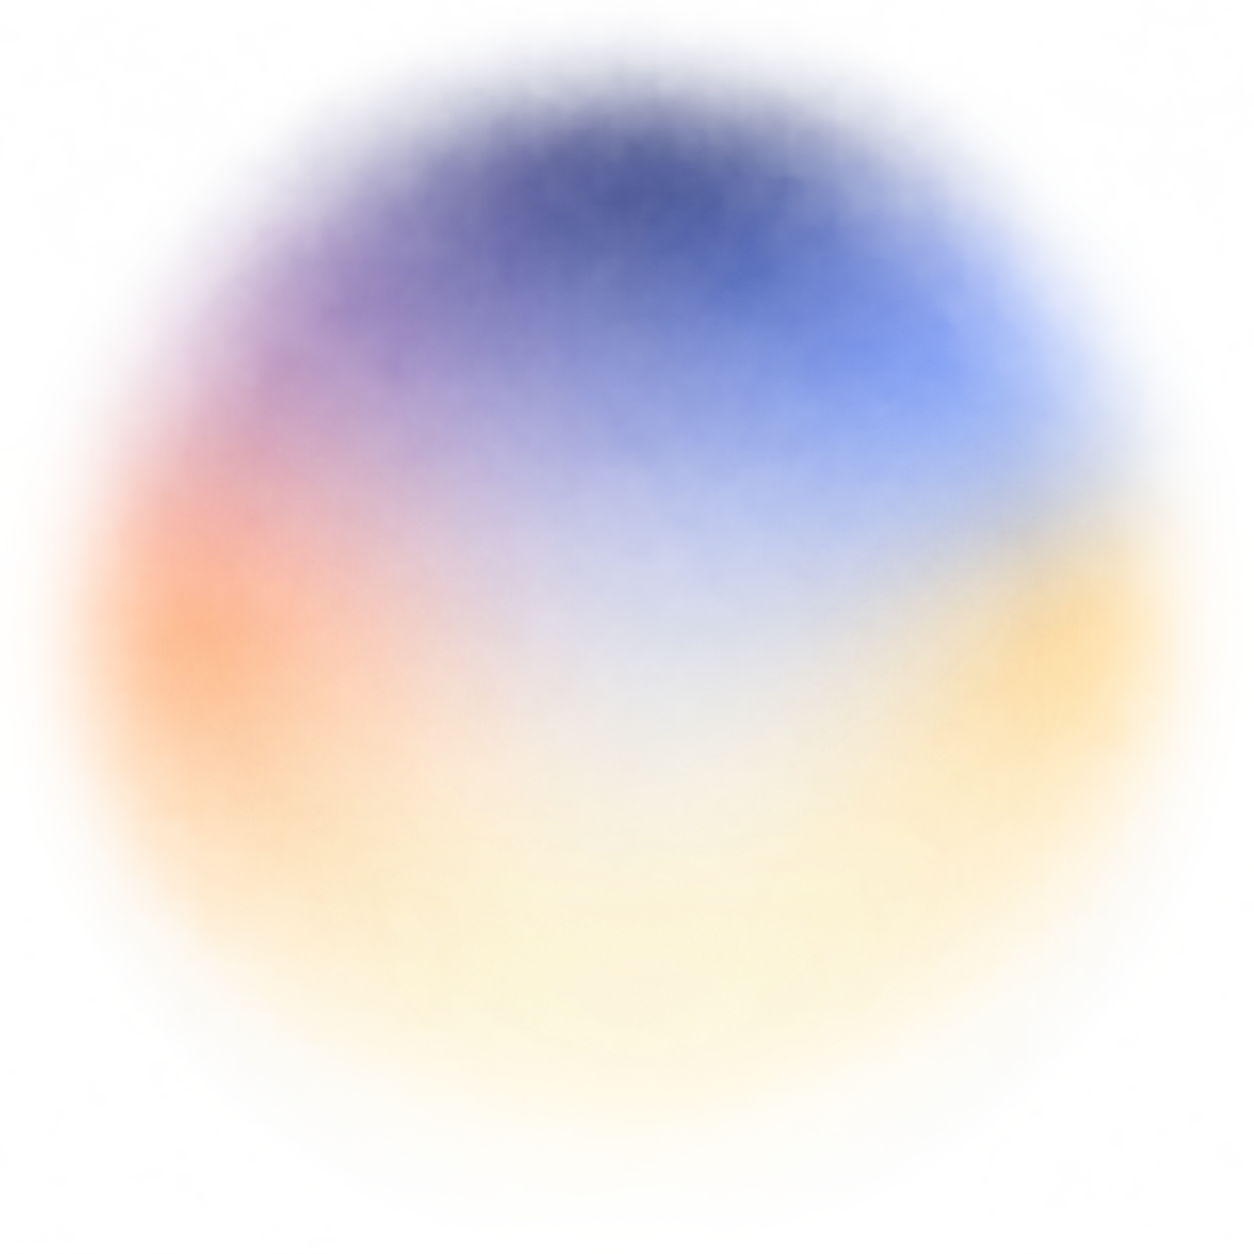
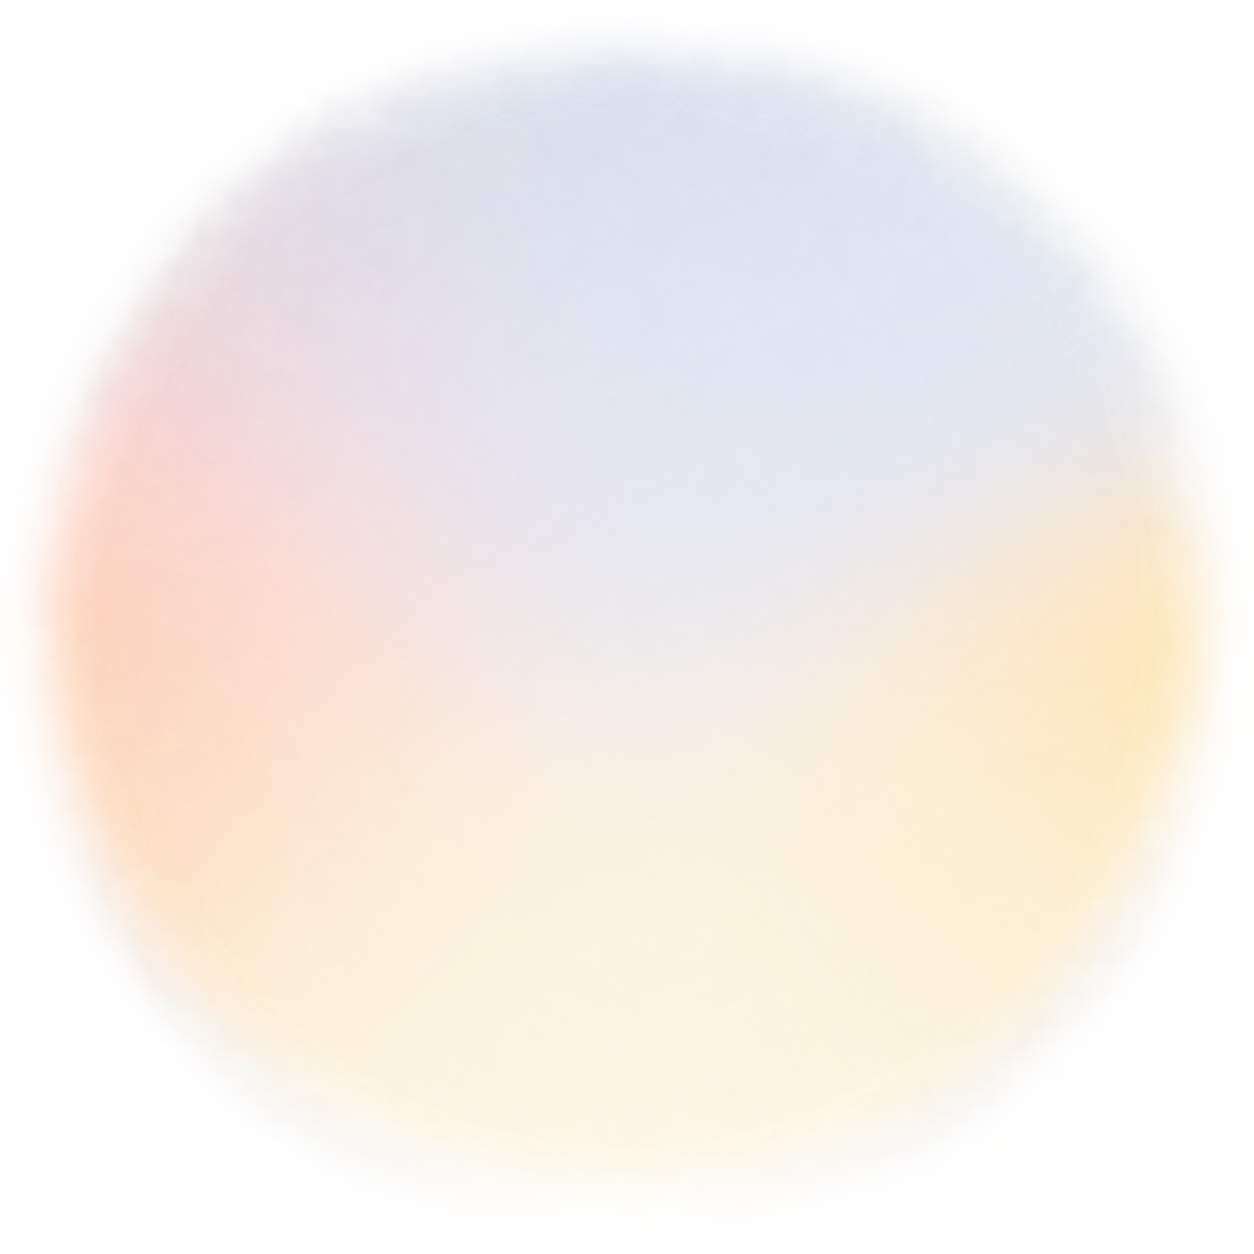
Refine Daily Rhythm dial

diff --git a/src/App.tsx b/src/App.tsx
@@ -858,7 +858,7 @@ function DailyRhythmCard({ petName, moments, scheduledMoments, onOpenActivitySum
     const distance = event.clientX - drag.x;
     if (!drag.active) return;
     event.preventDefault();
-    setDialTimeOffset(drag.offset + Math.round(distance * 3));
+    setDialTimeOffset(drag.offset - Math.round(distance * 3));
   };
   const endDialDrag = () => {
     const drag = dialDrag.current;
@@ -950,18 +950,18 @@ function DailyRhythmCard({ petName, moments, scheduledMoments, onOpenActivitySum
       </div>
     </header>
     <>
-    <div className="daily-rhythm-circle-heading"><span className="rhythm-circle-legend"><span><i className="pattern-key"/>Typical window</span><span><i className="done-key"/>Done</span><span><i className="upcoming-key"/>Upcoming</span></span><span className="daily-rhythm-dial-controls">{isToday ? <span className={`daily-rhythm-dial-toggle ${fullDayDial && !isRevealingHalfDay ? 'is-full-day' : ''} ${isRevealingHalfDay ? 'is-instant' : ''}`} role="group" aria-label="Dial view"><span className="daily-rhythm-dial-toggle-thumb" aria-hidden="true"/><button type="button" aria-pressed={!fullDayDial || isRevealingHalfDay} onClick={() => transitionDialMode(false)}>Now</button><button type="button" aria-pressed={fullDayDial && !isRevealingHalfDay} onClick={() => transitionDialMode(true)}>Full day</button></span> : <span className="daily-rhythm-dial-toggle-spacer" aria-hidden="true"/>}<button type="button" onClick={() => onPatterns()}>{timedPatterns.length ? 'View →' : 'Set up →'}</button></span></div>
+    <div className="daily-rhythm-circle-heading"><span className="rhythm-circle-legend"><span><i className="pattern-key"/>Typical window</span><span><i className="done-key"/>Done</span><span><i className="upcoming-key"/>Upcoming</span><span className="attention-legend"><i className="pending-key" aria-hidden="true"/>Needs attention</span></span><span className="daily-rhythm-dial-controls">{isToday ? <span className={`daily-rhythm-dial-toggle ${fullDayDial && !isRevealingHalfDay ? 'is-full-day' : ''} ${isRevealingHalfDay ? 'is-instant' : ''}`} role="group" aria-label="Dial view"><span className="daily-rhythm-dial-toggle-thumb" aria-hidden="true"/><button type="button" aria-pressed={!fullDayDial || isRevealingHalfDay} onClick={() => transitionDialMode(false)}>Now</button><button type="button" aria-pressed={fullDayDial && !isRevealingHalfDay} onClick={() => transitionDialMode(true)}>Full day</button></span> : <span className="daily-rhythm-dial-toggle-spacer" aria-hidden="true"/>}<button type="button" onClick={() => onPatterns()}>{timedPatterns.length ? 'View →' : 'Set up →'}</button></span></div>
     <div ref={dialChartRef} className={`daily-rhythm-circle-chart ${fullDayDial ? 'is-full-day' : 'is-half-day'} ${isRevealingFullDay ? 'is-revealing-full-day' : ''} ${isRevealingHalfDay ? 'is-revealing-half-day' : ''}`} onPointerDown={startDialDrag} onPointerMove={moveDialDrag} onPointerUp={endDialDrag} onPointerCancel={endDialDrag}>
       <svg viewBox={fullDayDial ? '0 0 600 600' : '0 0 600 300'} role="img" aria-label={`${displayName}’s ${fullDayDial ? 'full-day' : '12-hour'} activity timeline`}>
       <defs>
         <clipPath id="daily-rhythm-dial-clip"><rect x="0" y="0" width="600" height={fullDayDial ? 600 : 300}/></clipPath>
         <radialGradient id="daily-rhythm-atmosphere-fade" cx="300" cy="300" r="245" gradientUnits="userSpaceOnUse">
           <stop offset="0" stopColor="white" stopOpacity="1"/>
-          <stop offset=".3" stopColor="white" stopOpacity=".98"/>
+          <stop offset=".35" stopColor="white" stopOpacity=".99"/>
           <stop offset=".5" stopColor="white" stopOpacity=".9"/>
-          <stop offset=".7" stopColor="white" stopOpacity=".74"/>
-          <stop offset=".85" stopColor="white" stopOpacity=".52"/>
-          <stop offset=".95" stopColor="white" stopOpacity=".22"/>
+          <stop offset=".62" stopColor="white" stopOpacity=".66"/>
+          <stop offset=".74" stopColor="white" stopOpacity=".34"/>
+          <stop offset=".86" stopColor="white" stopOpacity=".08"/>
           <stop offset="1" stopColor="white" stopOpacity="0"/>
         </radialGradient>
         <mask id="daily-rhythm-atmosphere-mask" x="0" y="0" width="600" height="600" maskUnits="userSpaceOnUse" maskContentUnits="userSpaceOnUse"><rect width="600" height="600" fill="url(#daily-rhythm-atmosphere-fade)"/></mask>

diff --git a/src/styles.css b/src/styles.css
@@ -209,7 +209,7 @@ button:focus-visible, textarea:focus-visible, input:focus-visible { outline: 2px
 .daily-rhythm-split > .daily-rhythm-chart,
 .daily-rhythm-split > .daily-rhythm-today-lane { display:none; }
 .daily-rhythm-circle-chart svg { display:block; width:100%; height:auto; overflow:visible; }
-.daily-rhythm-atmosphere { opacity:.84; filter:saturate(1.5) contrast(1.1) brightness(.92); mix-blend-mode:multiply; pointer-events:none; }
+.daily-rhythm-atmosphere { opacity:.94; filter:blur(4px) saturate(1.08) brightness(1.04); mix-blend-mode:normal; pointer-events:none; }
 .daily-rhythm-insight-row { position:relative; z-index:2; display:flex; justify-content:flex-end; min-height:22px; margin:0 0 2px; }
 .daily-rhythm-insight-link { border:0; padding:4px 7px; background:transparent; color:#a15b2f; font:600 10px/14px 'Roboto',sans-serif; }
 .rhythm-circle-guide { fill:none; stroke:#eadfc4; stroke-width:2; filter:drop-shadow(0 2px 2px #8d774033); }
@@ -247,6 +247,8 @@ button:focus-visible, textarea:focus-visible, input:focus-visible { outline: 2px
 .rhythm-circle-legend i { width:9px; height:9px; border-radius:50%; background:#f4d783; }
 .rhythm-circle-legend .done-key { background:#80b45e; }
 .rhythm-circle-legend .upcoming-key { background:#c5c7c2; }
+.rhythm-circle-legend .pending-key { background:#c9362f; box-shadow:0 1px 2px #6b1b1b55; }
+.rhythm-circle-legend .attention-legend { color:#c9362f; }
 .daily-rhythm-circle-heading .rhythm-circle-legend { justify-content:flex-start; padding:0; gap:9px; }
 .daily-rhythm-circle-heading .rhythm-circle-legend span { gap:4px; }
 .daily-rhythm-circle-heading { align-items:flex-start; margin-bottom:6px; }
